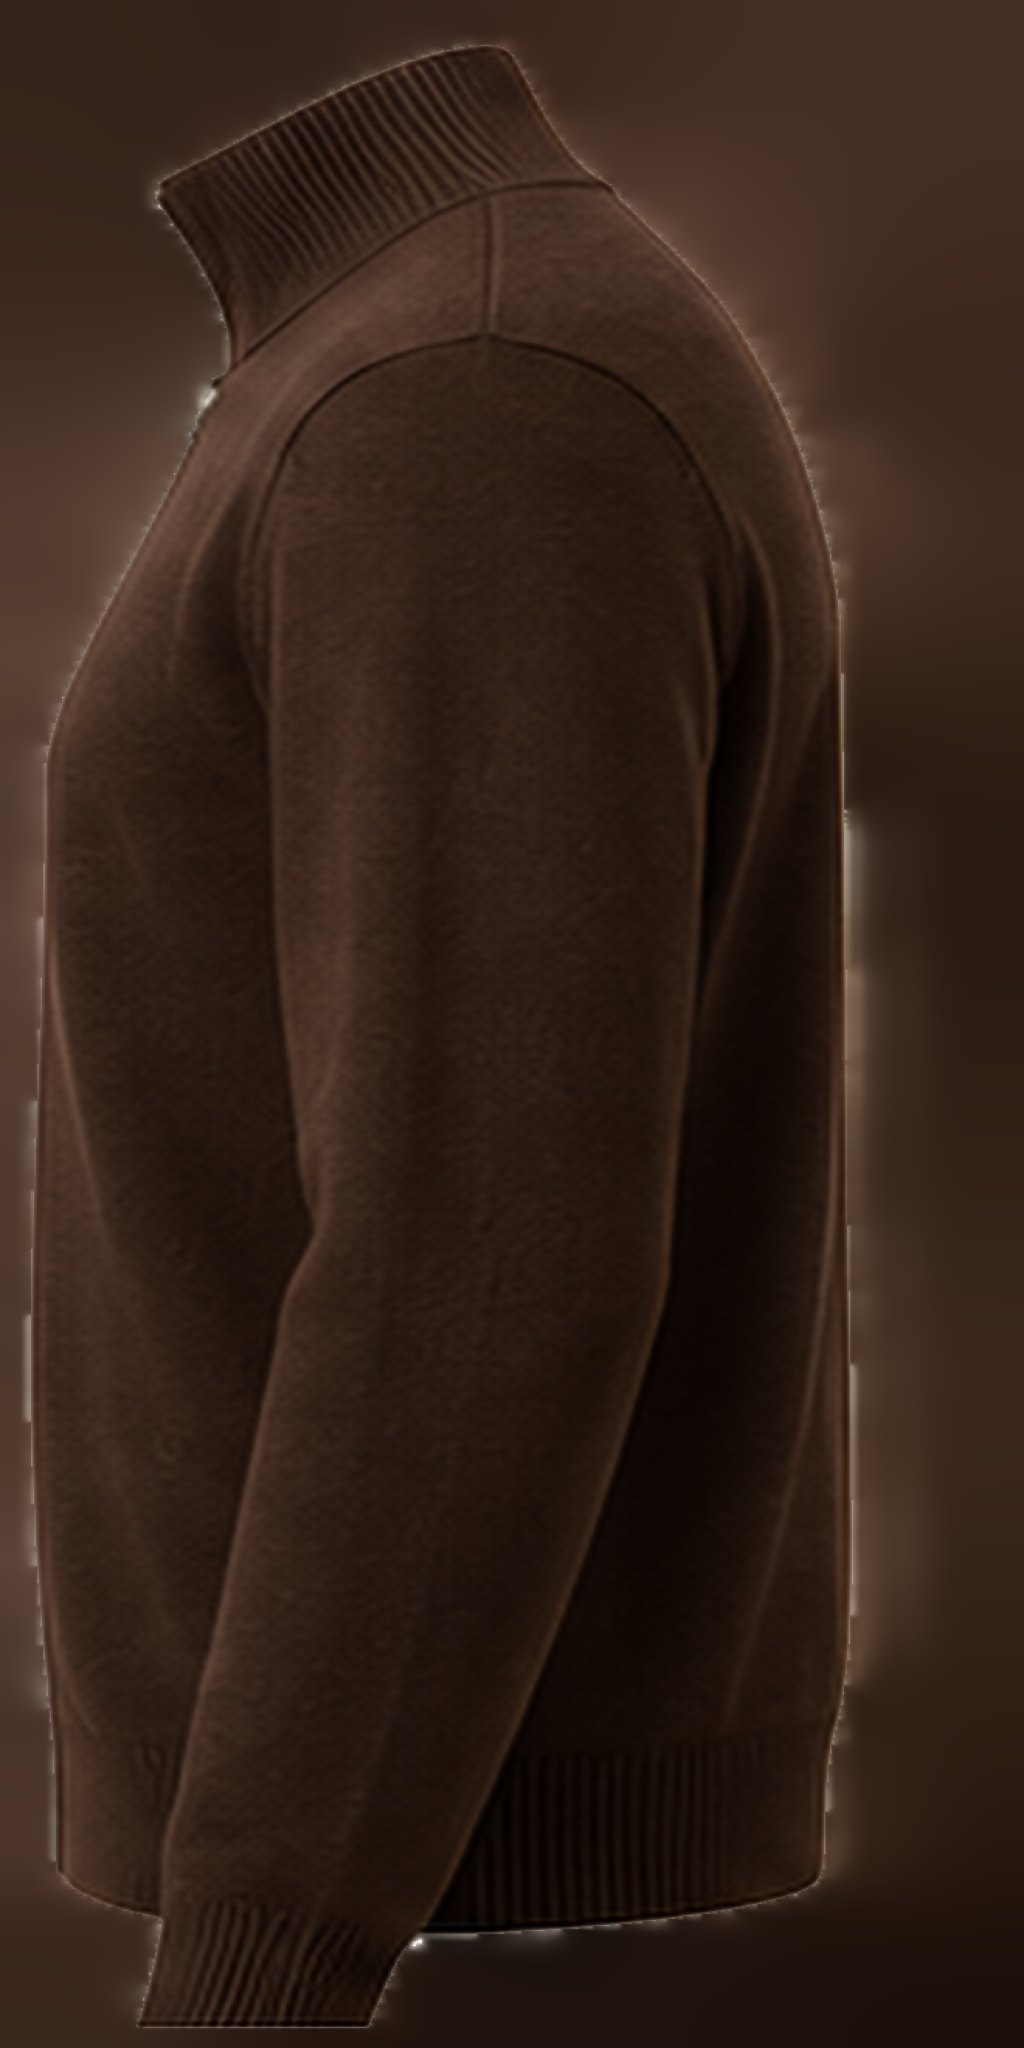
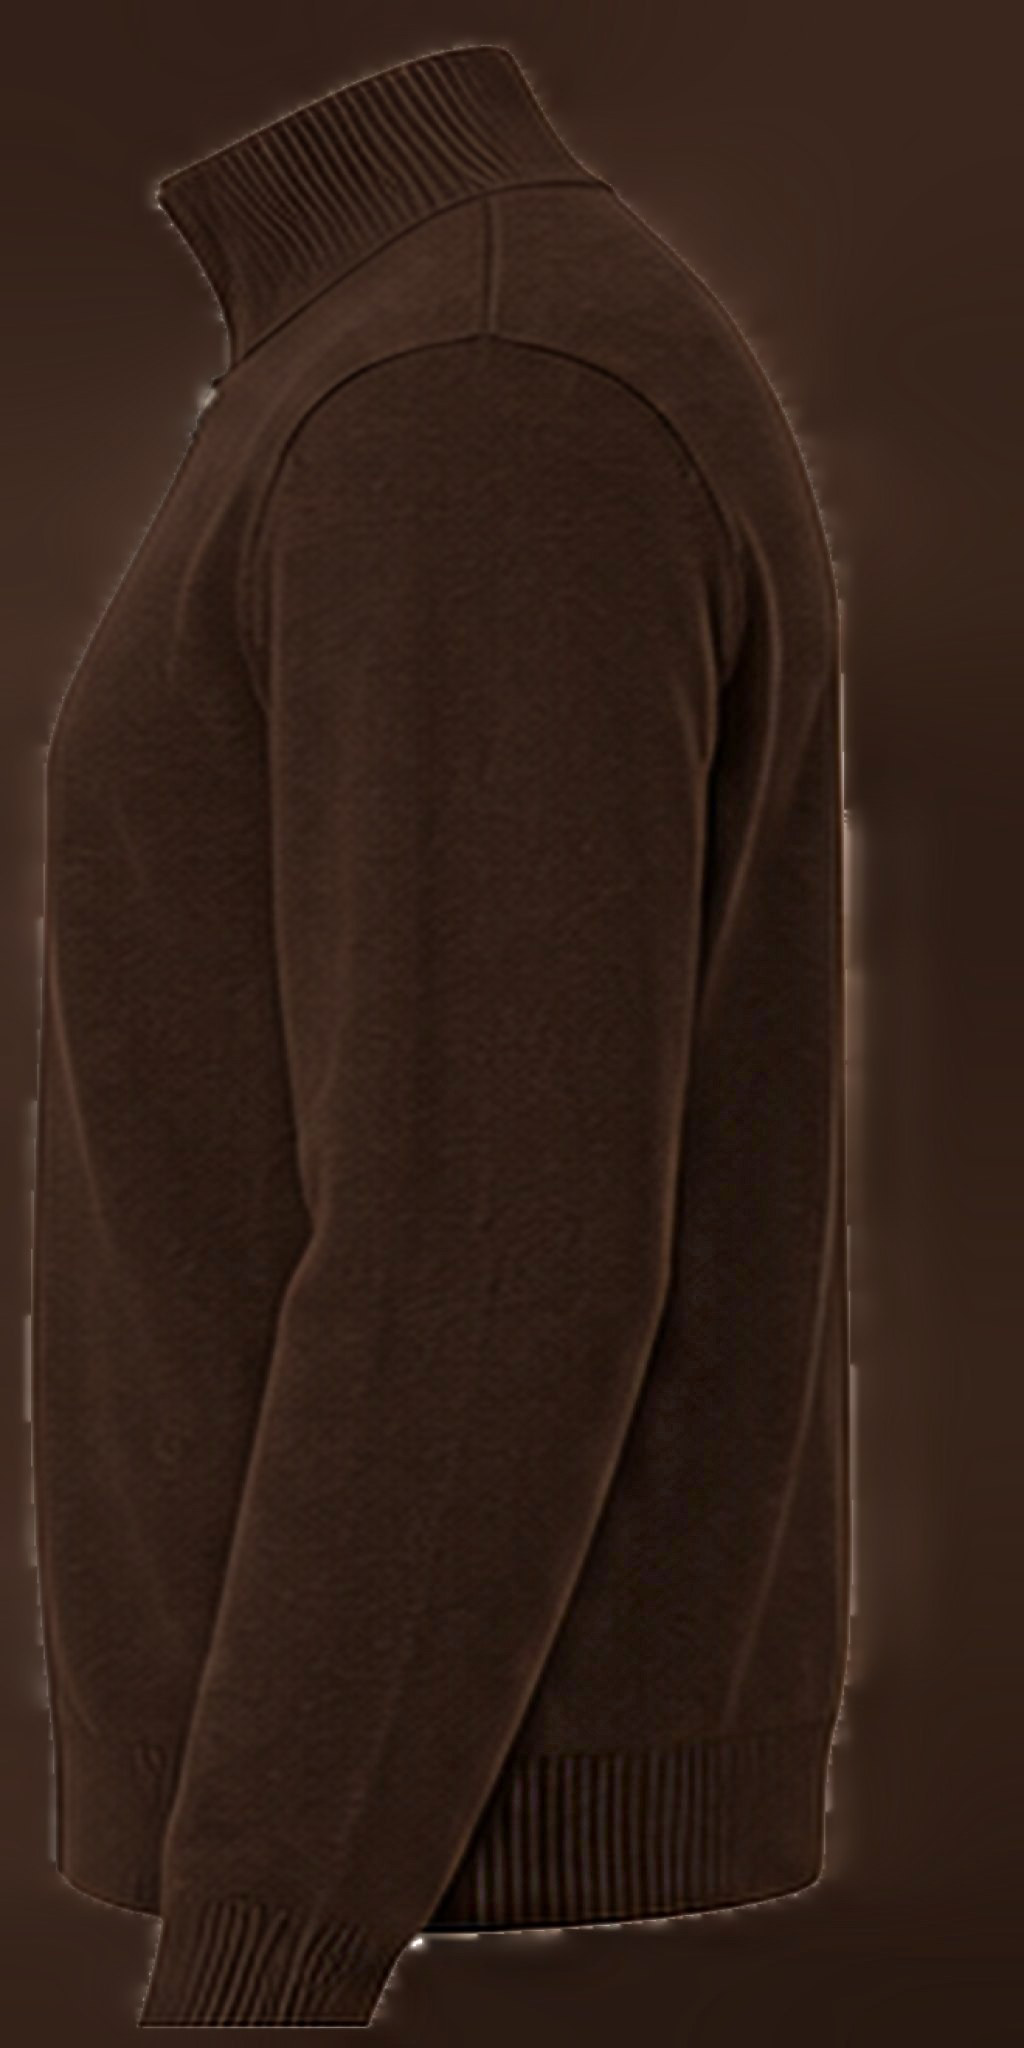
Cardigan 3D : couleur chocolat uniforme sur toutes les vues, raccords plus nets
Claude-Session: https://claude.ai/code/session_01KVDNtNdXrkWVPdbVR9W3PF

diff --git a/js/v360.js b/js/v360.js
@@ -23,7 +23,7 @@
     ' vec3 n=normalize(vN);',
     ' if(texture2D(tM,uvF).r<.5&&abs(n.z)>.55)discard;',
     ' vec2 h=normalize(n.xz+vec2(0.,1e-4));',
-    ' float wf=pow(max(h.y,0.),3.),wb=pow(max(-h.y,0.),3.),ws=pow(abs(h.x),3.);',
+    ' float wf=pow(max(h.y,0.),6.),wb=pow(max(-h.y,0.),6.),ws=pow(abs(h.x),6.);',
     ' vec3 c=(texture2D(tF,uvF).rgb*wf+texture2D(tB,uvB).rgb*wb+texture2D(tS,uvS).rgb*ws)/(wf+wb+ws+1e-4);',
     ' float kf=texture2D(tK,vP.xy*uK.x).r,ks=texture2D(tK,vec2(vP.z,vP.y)*uK.x).r;',
     ' float k=mix(kf,ks,ws/(wf+wb+ws+1e-4));',
